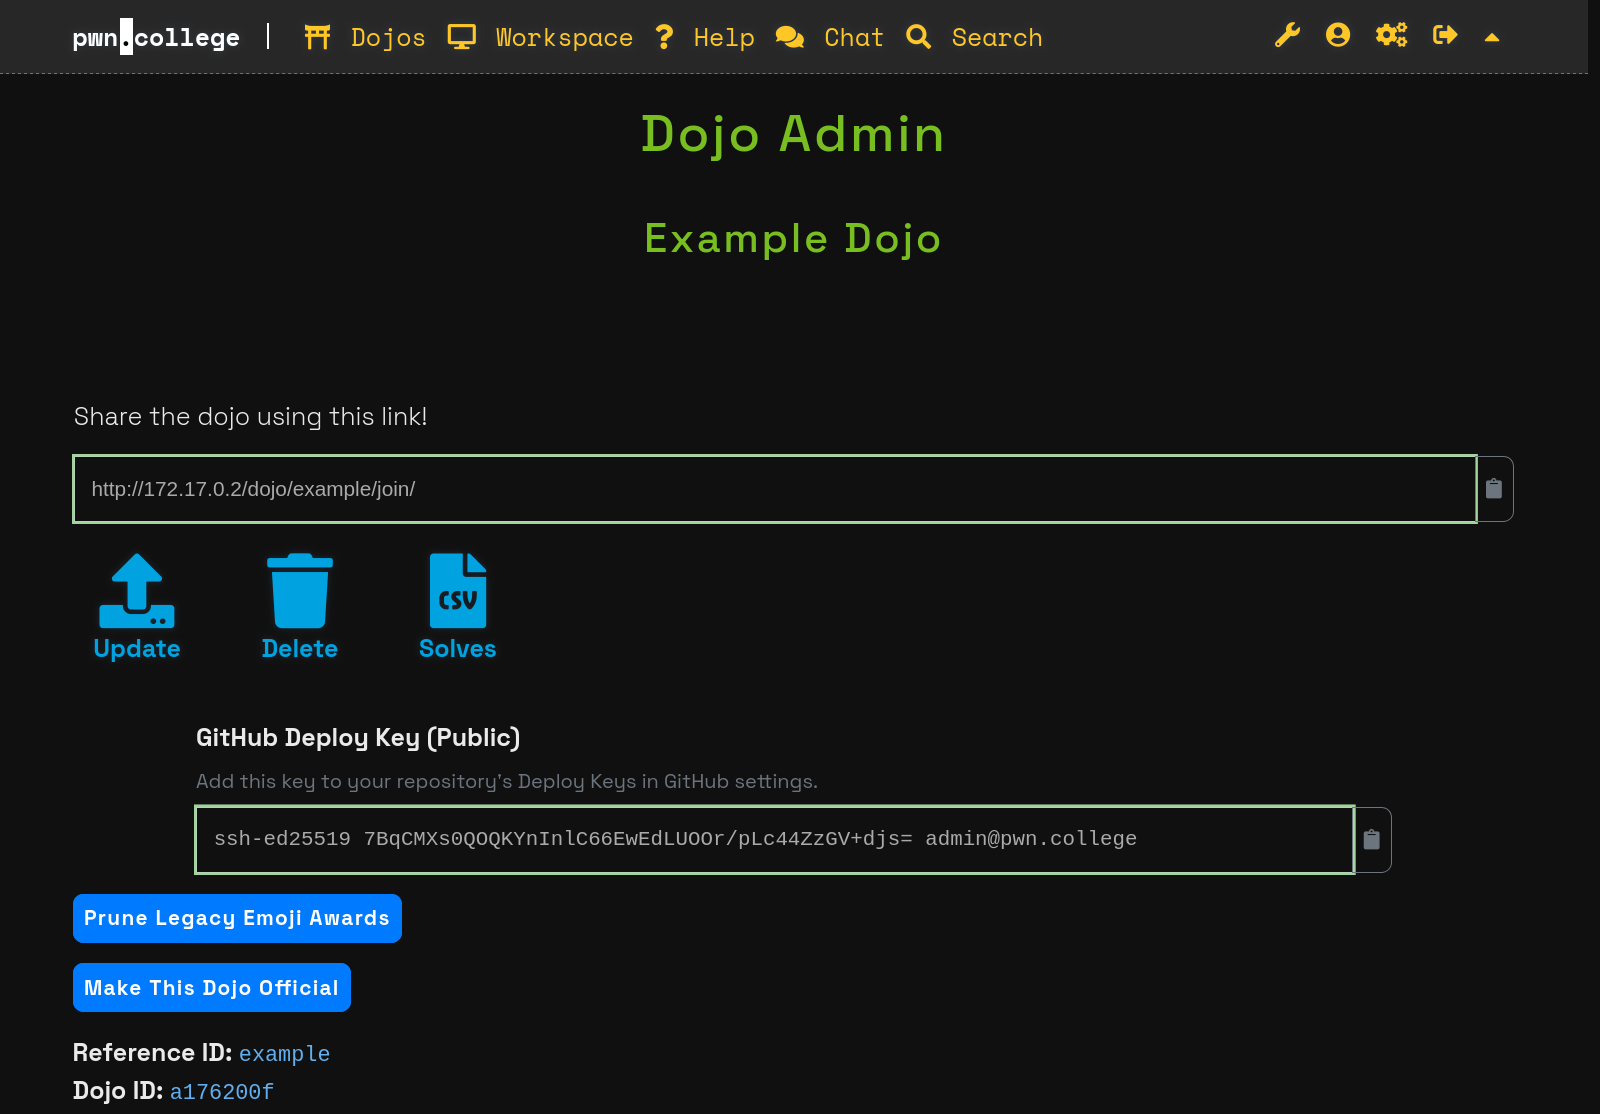
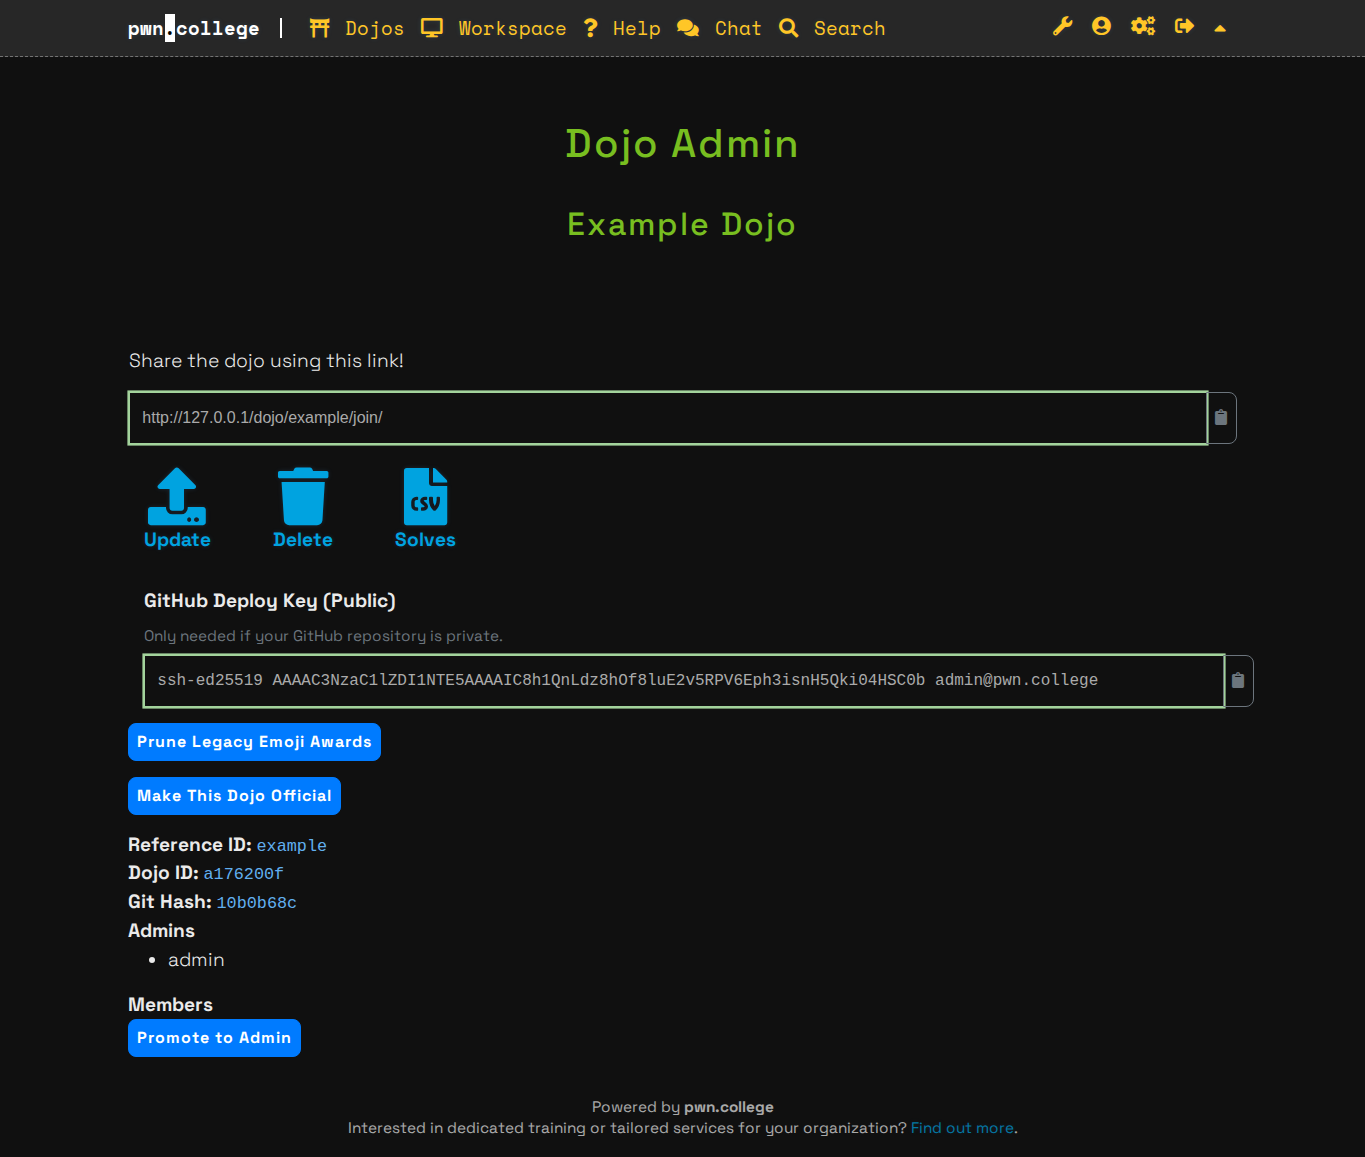
Align deploy key field and simplify helper text

diff --git a/dojo_theme/templates/dojo_admin.html b/dojo_theme/templates/dojo_admin.html
@@ -58,18 +58,14 @@
     {% endif %}
   </div>
   {% if dojo.public_key %}
-  <div class="row justify-content-center mt-2">
-    <div class="col-lg-10">
-      <label class="mb-1 font-weight-bold" for="dojo-deploy-key-result">GitHub Deploy Key (Public)</label>
-      <small class="form-text text-muted mb-2">Add this key to your repository's Deploy Keys in GitHub settings.</small>
-      <div class="input-group mb-3">
-        <input type="text" id="dojo-deploy-key-result" class="form-control text-monospace" value="{{ dojo.public_key }}" readonly>
-        <div class="input-group-append copy-button">
-          <button class="btn btn-outline-secondary" type="button">
-            <i class="fas fa-clipboard"></i>
-          </button>
-        </div>
-      </div>
+  <label class="mb-1 ml-3 font-weight-bold" for="dojo-deploy-key-result">GitHub Deploy Key (Public)</label>
+  <small class="form-text text-muted mb-2 ml-3">Only needed if your GitHub repository is private.</small>
+  <div class="input-group mx-3 mb-3">
+    <input type="text" id="dojo-deploy-key-result" class="form-control text-monospace" value="{{ dojo.public_key }}" readonly>
+    <div class="input-group-append copy-button">
+      <button class="btn btn-outline-secondary" type="button">
+        <i class="fas fa-clipboard"></i>
+      </button>
     </div>
   </div>
   {% endif %}
